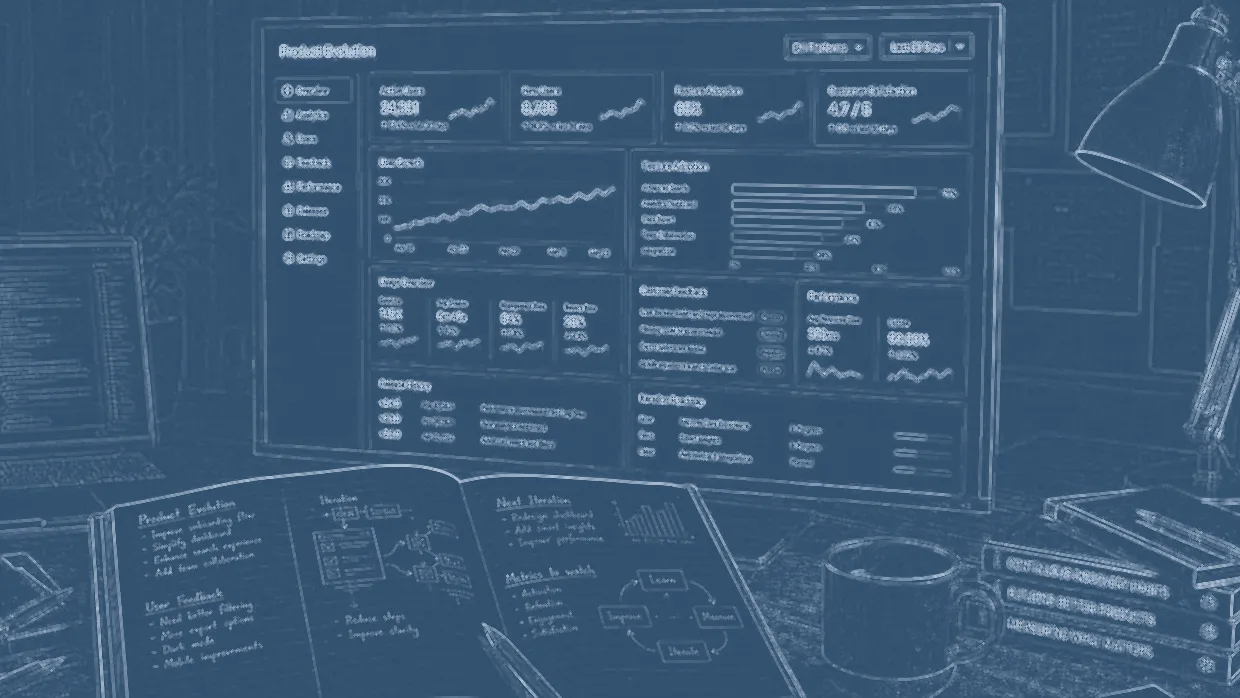
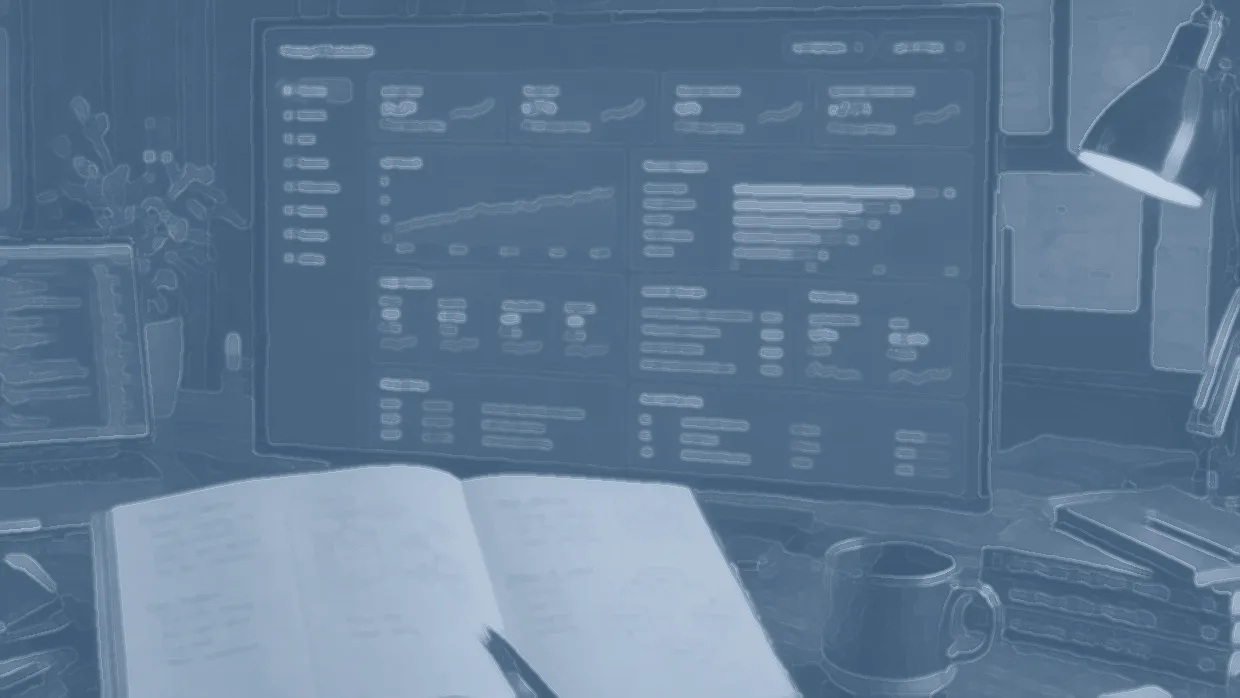
Give the plates their shading back: tone under line, not line alone
Three settings of a pure edge drawing have now been tried and none of them read
at the size these print. The second is the one worth writing down: brightening
the strokes to 0.96 and thickening them by a pixel made each LINE clearer and
the PLATE no clearer. The sources are photographs of cluttered desks and
screens, every crumb of texture becomes a stroke, and a drawing of clutter at
132px is clutter. 03's six print at 132px.

A pencil sketch has shading in it, not just outline. So -kuwahara smooths the
texture out first, while the real edges survive it, and the dodge sketch is
screened back OVER that tone instead of replacing it. The notebook reads as a
light mass against a dark desk -- which is what makes it legible small -- and
the strokes draw its edges.

-posterize was tried on the tone and rejected: four or five levels blow the
light masses to slabs and lose the detail the screen had just bought.

GROUND #2c4a68 is 0.33 against a 0.204 page. HIGH #c8d8ea is 0.80 and stays
under the book's silver ink at 0.895, because at 0.96 the plates were brighter
than the headline set beside them.

QA: four viewports, all exit 0, pinned scrollHeight 7911 unchanged.

Claude-Session: https://claude.ai/code/session_01XfAX2YSArtGBqSyEfKFt98

diff --git a/CLAUDE.md b/CLAUDE.md
@@ -1247,29 +1247,30 @@ re-run here.
 - **It is not idempotent.** Sketching a sketch finds edges in the first pass's
   own strokes and doubles them. `git checkout apps/web/public/{services,process,work}`
   before a second run, exactly as `stamp-book-logo.py` requires.
-- **It is struck on a LIFTED ground, and both colours had to move to get
-  there.** Two earlier settings of the same two colours failed in opposite
-  directions and both are worth knowing.
+- **It is TONE AND LINE, and three pure-outline versions were not legible.** A
+  pencil sketch has shading in it, not just outline, and that turned out to be
+  the whole problem. The settings tried: struck on a 0.235 ground (no visible
+  panel at all against a 0.204 page); struck on a 0.37 ground (a panel, but
+  line-only); graphite on 0.72 paper (legible, and a pale slab stuck on navy
+  stock).
 
-  **Too dark.** The first struck version put the ground at luma 0.235 against a
-  page of 0.204 — 0.03 of separation, which is no visible plate at all — with
-  one-pixel silver strokes on it. 03's six print at 132px; nothing read.
-  Brightening and thickening the strokes twice did not fix it, because the
-  missing thing was the PANEL, not the ink.
+  **The second is the instructive failure.** Brightening the strokes to 0.96
+  and thickening them by a pixel made each LINE clearer and the PLATE no
+  clearer — because these sources are photographs of cluttered desks and
+  screens. Every crumb of texture becomes a stroke, and a drawing of clutter at
+  132px is clutter.
 
-  **Too light.** So it was turned over: dark lines on a pale panel at 0.72.
-  That read perfectly and was still wrong — a pale slab on navy stock is a
-  sticker stuck to the page, the failure recorded against 07's action panel,
-  and it made every plate the brightest thing in its chapter.
+  So `-kuwahara` smooths the texture out first while real edges survive it, and
+  the dodge sketch is `-compose screen`ed back OVER that tone rather than
+  replacing it: the notebook reads as a light mass against a dark desk, which
+  is what makes it legible small, and the strokes draw its edges. `-posterize`
+  was tried on the tone and rejected — 4–5 levels blows the light masses to
+  slabs and loses the detail the screen had just bought.
 
-  **The middle is right.** `GROUND #31506f` (0.37) is far enough above the page
-  to read as a panel and nowhere near pale enough to read as paper. `STROKE`
-  was `#f2f7fd` (0.96) for one revision, which made the drawing brighter than
-  the headline set beside it — a plate that outshouts its own chapter heading
-  is competing with the page rather than illustrating it. It is `#bacbdf`
-  (0.78) now: bright against a 0.37 ground and a step UNDER the book's silver
-  ink at 0.895, so the type stays the lightest thing on the paper. Medians run
-  0.30–0.42.
+  `GROUND #2c4a68` (0.33) against a 0.204 page; `HIGH #c8d8ea` (0.80), which
+  stays UNDER the book's silver ink at 0.895 — at 0.96 the plates were
+  brighter than the headline beside them, and a plate that outshouts its own
+  chapter heading competes with the page instead of illustrating it.
 - **The audit is `build-process-plates.sh`'s**: the MEDIAN against a page luma
   sampled live off `frame-091` (0.2036). Median and not minimum — a drawing is
   *supposed* to contain strokes near the page's own value; what it may not be
